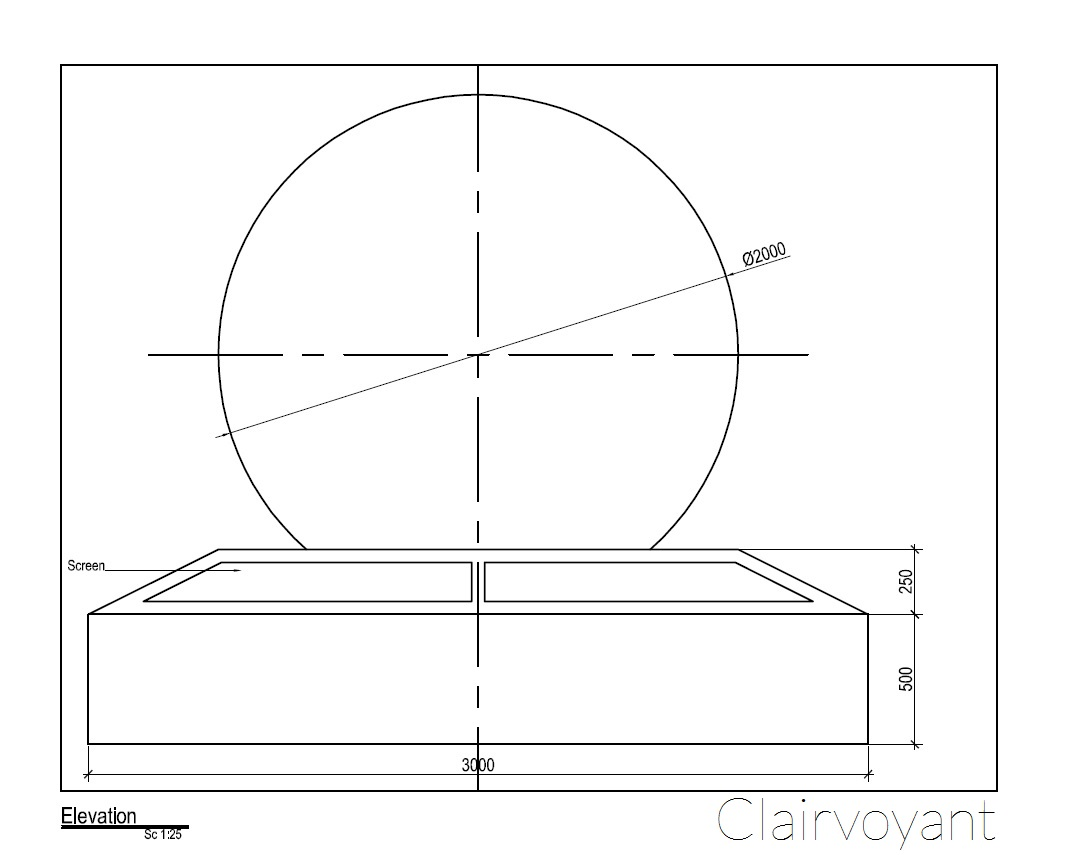
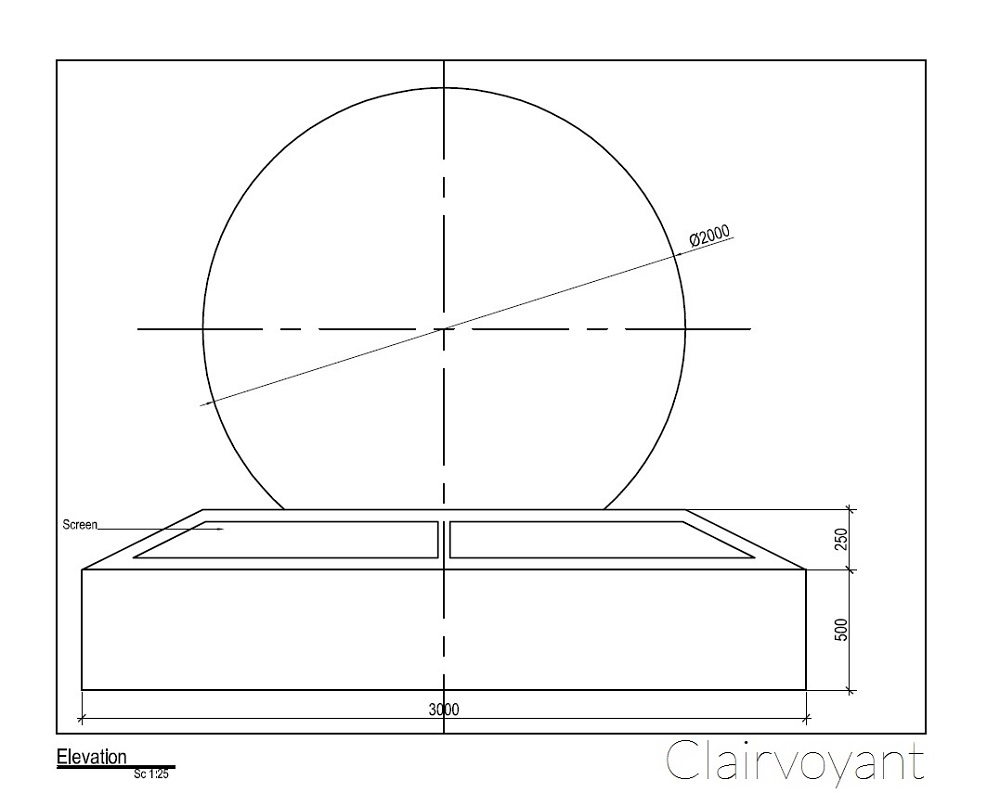
Added the second concept diagram.

diff --git a/project_posts/2014-03-23-Concept-Diagrams.md b/project_posts/2014-03-23-Concept-Diagrams.md
@@ -1,2 +1,6 @@
 A concept diagram to help us visually illustrate the relationship between different ideas and how the ideas are put together to tell the whole story.
 ![Concept diagrams](../project_images/concept-diagram1.jpg)
+A more detailed concept diagram that shows a number of projectors at a certain elevation, projecting a rotating map to a stable solid sphere.
+![Concept diagrams](../project_images/concept-diagram2.jpg)
+
+
